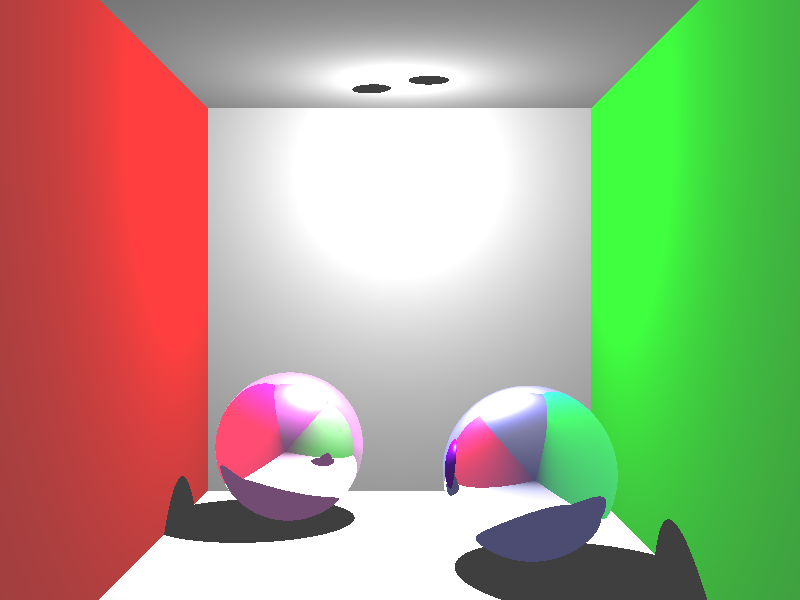
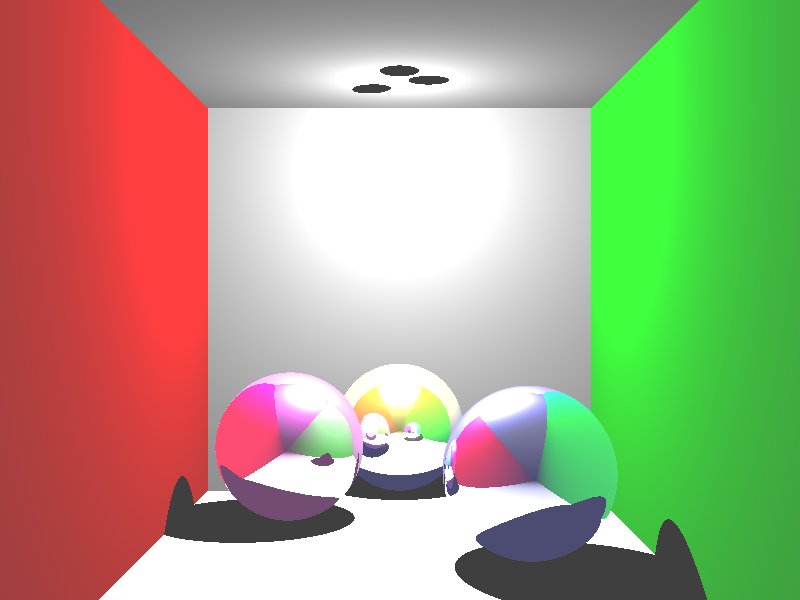
Verify reflectivity

Changed region(s): [[0.4375, 0.6, 0.5938, 0.84], [0.4688, 0.09, 0.5312, 0.15]]

diff --git a/VCG_Raytracer/src/raytracer/Raytracer.java b/VCG_Raytracer/src/raytracer/Raytracer.java
@@ -82,6 +82,7 @@ public class Raytracer {
         if( intersection.isHit() && intersection.isIncoming() ){
             // Stop! Enter, if the last recursion level is reached, but it is not the final ray to the light
             if( recursionCounter == 0) {
+                Log.warn(this, "got End");
                 // If recursion is done and it is not the last ray then trace the ray to all lights to see if any obstacle exists
                 return outColor;
             }
@@ -115,8 +116,8 @@ public class Raytracer {
 
             // Only if no intersection is happening between the last intersection Point and the light source draw the color
             if(!lightIntersection.isHit() || lightIntersection.isOutOfDistance() ){
-                // This was the last ray and nothing was hit on the ray from the last object to the light source
 
+                // This was the last ray and nothing was hit on the ray from the last object to the light source
                 illuColor = illuColor.add( calculateLocalIllumination(light, finalIntersection.getShape(), finalIntersection ));
                 isInTheShade = false;
             }
@@ -127,7 +128,7 @@ public class Raytracer {
             return calculateShadowColor(finalIntersection.getShape());
         }
 
-        // Finally add ambient color to each object
+        // No shadow: finally add ambient color to each object only once
         return illuColor.add(finalIntersection.getShape().getAmbient());
     }
 

diff --git a/VCG_Raytracer/src/Main.java b/VCG_Raytracer/src/Main.java
@@ -35,9 +35,6 @@ import utils.Log;
 import utils.RgbColor;
 import utils.Vec3;
 
-import java.io.File;
-import java.net.URL;
-
 // Main application class. This is the routine called by the JVM to run the program.
 public class Main {
 
@@ -49,11 +46,11 @@ public class Main {
     static Vec3 UP_VECTOR = new Vec3(0, 1, 0);
 
     static float VIEW_ANGLE = 35;
-    static float FOCAL_LENGTH = 10;
+    static float FOCAL_LENGTH = 1;
 
     static float DIMENSION = 3f;
 
-    static int RECURSIONS = 2;
+    static int RECURSIONS = 3;
 
     static RgbColor BACKGROUND_COLOR = RgbColor.BLACK;
 
@@ -106,6 +103,7 @@ public class Main {
 
         renderScene.createSphere(new Vec3(-DIMENSION/2f, -DIMENSION + sphereRadius, -DIMENSION/3f+3), sphereMaterial1, sphereRadius);
         renderScene.createSphere(new Vec3(DIMENSION/2f, -DIMENSION + sphereRadius, DIMENSION/3f+3), sphereMaterial2, sphereRadius);
+        renderScene.createSphere(new Vec3(0, -DIMENSION + sphereRadius, 0), sphereMaterial3, sphereRadius);
     }
 
     private static void setupCornellBox(Scene renderScene) {

diff --git a/VCG_Raytracer/src/scene/shapes/Sphere.java b/VCG_Raytracer/src/scene/shapes/Sphere.java
@@ -30,16 +30,6 @@ public class Sphere extends Shape {
         return fillIntersectionInfo(ray, distanceToPosSq, intersectionTest, distanceToPos);
     }
 
-    // Warning: Material is not compared
-//    @Override
-//    public boolean equals(Shape shape) {
-//        return getPosition().equals(shape.getPosition());
-//    }
-
-    public float getRadius() {
-        return mRadius;
-    }
-
     private Intersection fillIntersectionInfo(Ray ray, float distanceToPosSq, Intersection intersectionTest, Vec3 distanceToPos) {
         float t;
         float compB = -distanceToPos.scalar(ray.getDirection());
@@ -54,12 +44,10 @@ public class Sphere extends Shape {
 
         if (t0 > 0 && t1 > 0)
             t = t0;
-        //else if (t0 < 0.0f && t1 < 0)
-        //    return intersectionTest;
         else if (t0 < 0.0f && t1 > 0)
             t = t1;
-        //else if (t0 == t1)
-        //    t = t0;
+        else if (t0 == t1)
+            t = t0;
         else
             return intersectionTest;
 
